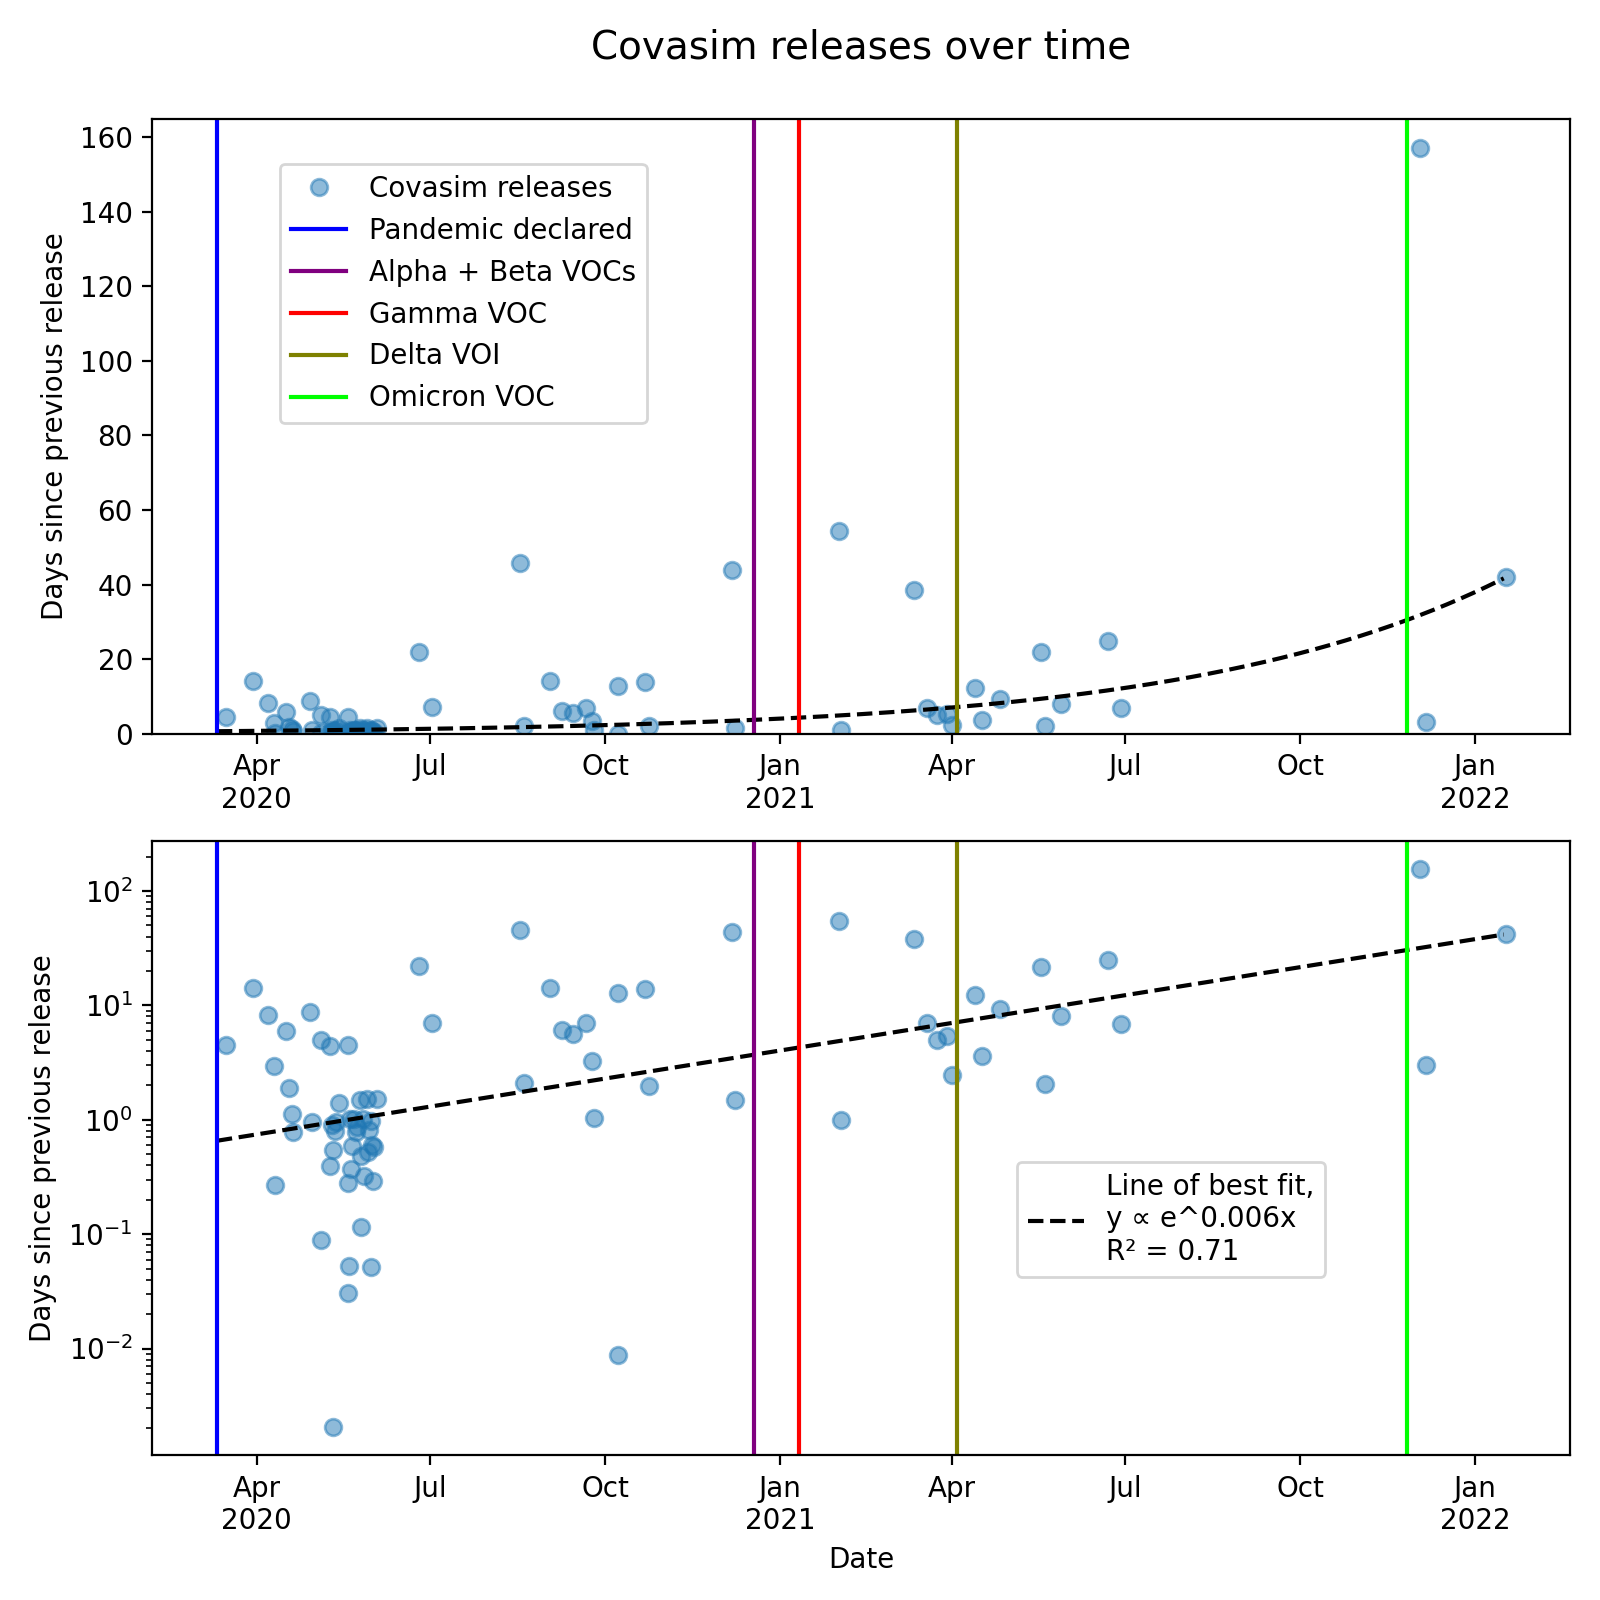
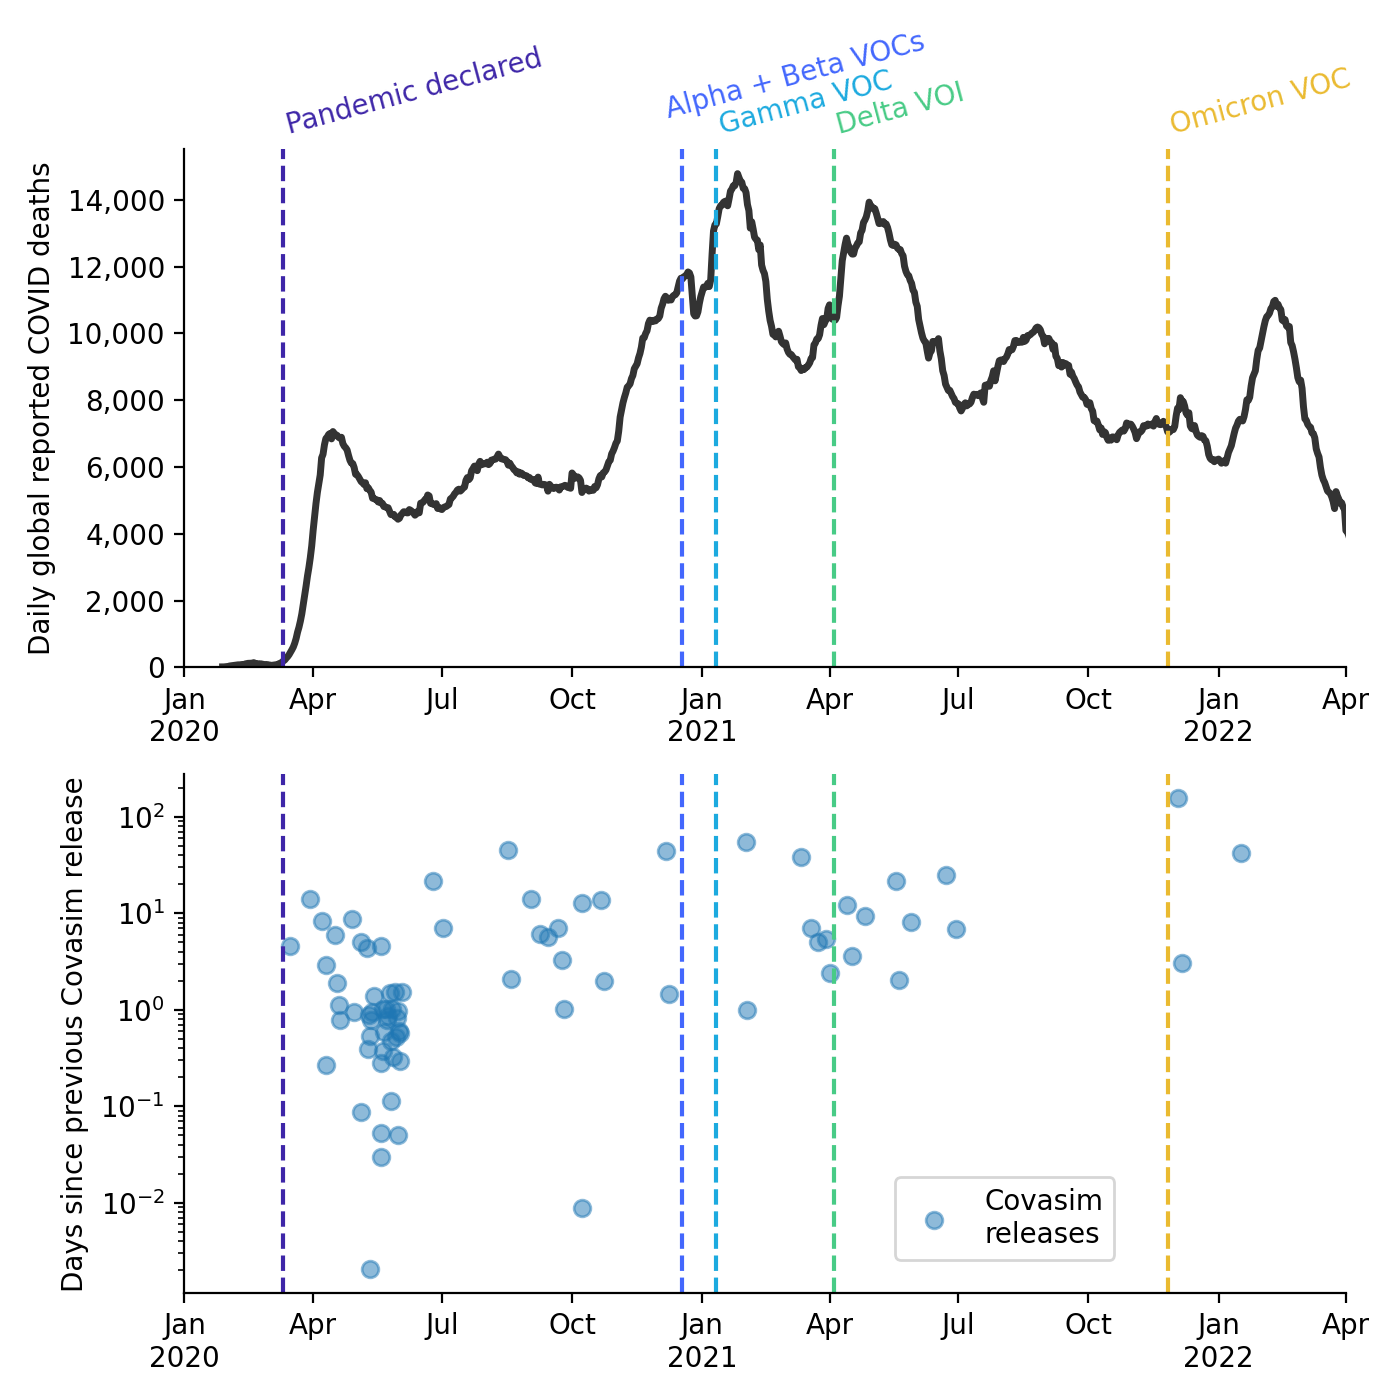
updating releases figure

diff --git a/paper_support/covasim_releases.py b/paper_support/covasim_releases.py
@@ -3,13 +3,12 @@ Plot graph of Covasim releases over time.
 '''
 
 import numpy as np
-import pandas as pd
 import pylab as pl
 import sciris as sc
 import datetime as dt
 
 
-dosave = 0
+dosave = 1
 
 # Command: git tag -l --sort=creatordate --format='%(creatordate:raw)|%(refname:short)'
 tagdata = '''
@@ -121,30 +120,39 @@ diffs = np.diff(vals)
 
 
 sc.options(dpi=150)
-pl.figure(figsize=(8,8))
+pl.figure(figsize=(7,7))
 
 ax1 = pl.subplot(2,1,1)
-ax1.plot(covid.date, sc.rolling(covid.deaths))
+ax1.plot(covid.date, sc.rolling(covid.deaths), 'k', lw=2.5, alpha=0.8)
+ax1.set_ylabel('Daily global reported COVID deaths')
 sc.setylim(ax=ax1)
+sc.commaticks(ax=ax1)
 
 ax2 = pl.subplot(2,1,2)
-ax2.semilogy(stamps[1:], diffs, 'o', alpha=0.5, label='Covasim releases')
+ax2.semilogy(stamps[1:], diffs, 'o', alpha=0.5, label='Covasim\nreleases')
+ax2.set_ylabel('Days since previous Covasim release')
 
 
-colors = sc.vectocolor(len(vocs)+1, cmap='brg')
+colors = sc.vectocolor(len(vocs)+1, cmap='parula')
 for a,ax in enumerate([ax1, ax2]):
-    if a==1: ax.set_xlabel('Date')
-    ax.set_ylabel('Days since previous release')
-    sc.dateformatter(ax)
+    sc.dateformatter(ax, start='2020-01-01', end='2022-04-01')
+    sc.boxoff(ax=ax)
 
     for i,label,date in vocs.enumitems():
         label = label if a==0 else ''
         x = sc.date(date)
         ax.axvline(x, linestyle='--', label=label, c=colors[i])
-        ax.text(x, 1.0, label)
+        if a==0:
+            yl = ax.get_ylim()
+            if i==1:
+                dx = sc.datedelta(days=-14)
+                dy = 0.03
+            else:
+                dx = sc.datedelta(days=0)
+                dy = 0
+            ax.text(x+dx, yl[1]*(1.03+dy), label, rotation=15, c=colors[i])
 
-ax1.legend(bbox_to_anchor=(0.08,0.95))
-ax2.legend(bbox_to_anchor=(0.6,0.5), frameon=1)
+ax2.legend(bbox_to_anchor=(0.6,0.25), frameon=1)
 sc.figlayout()
 
 if dosave:
